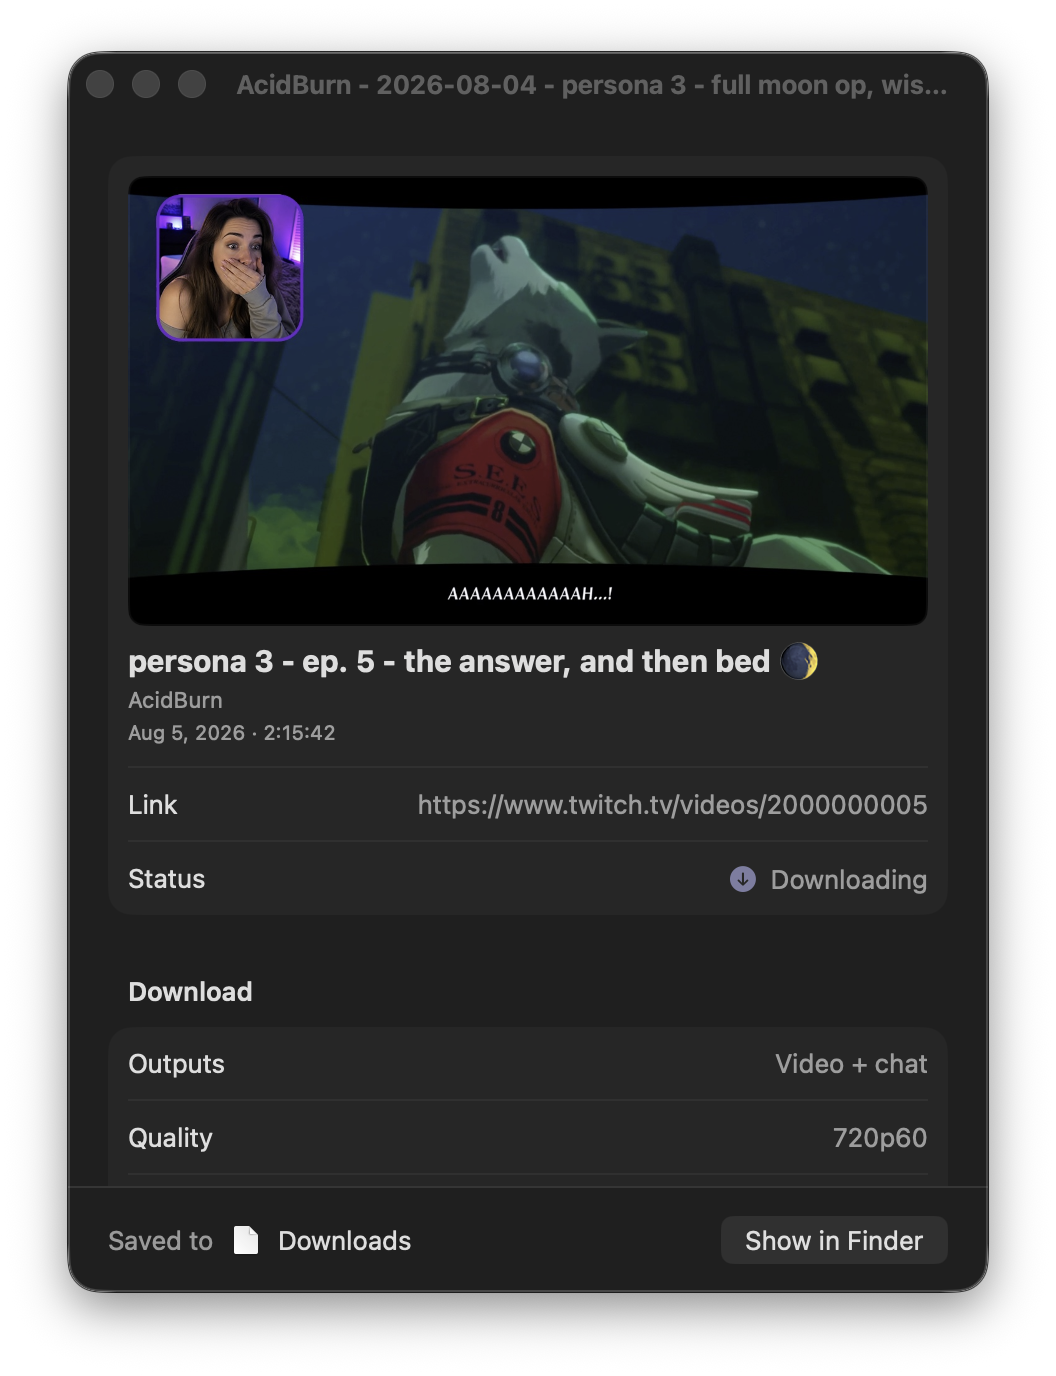
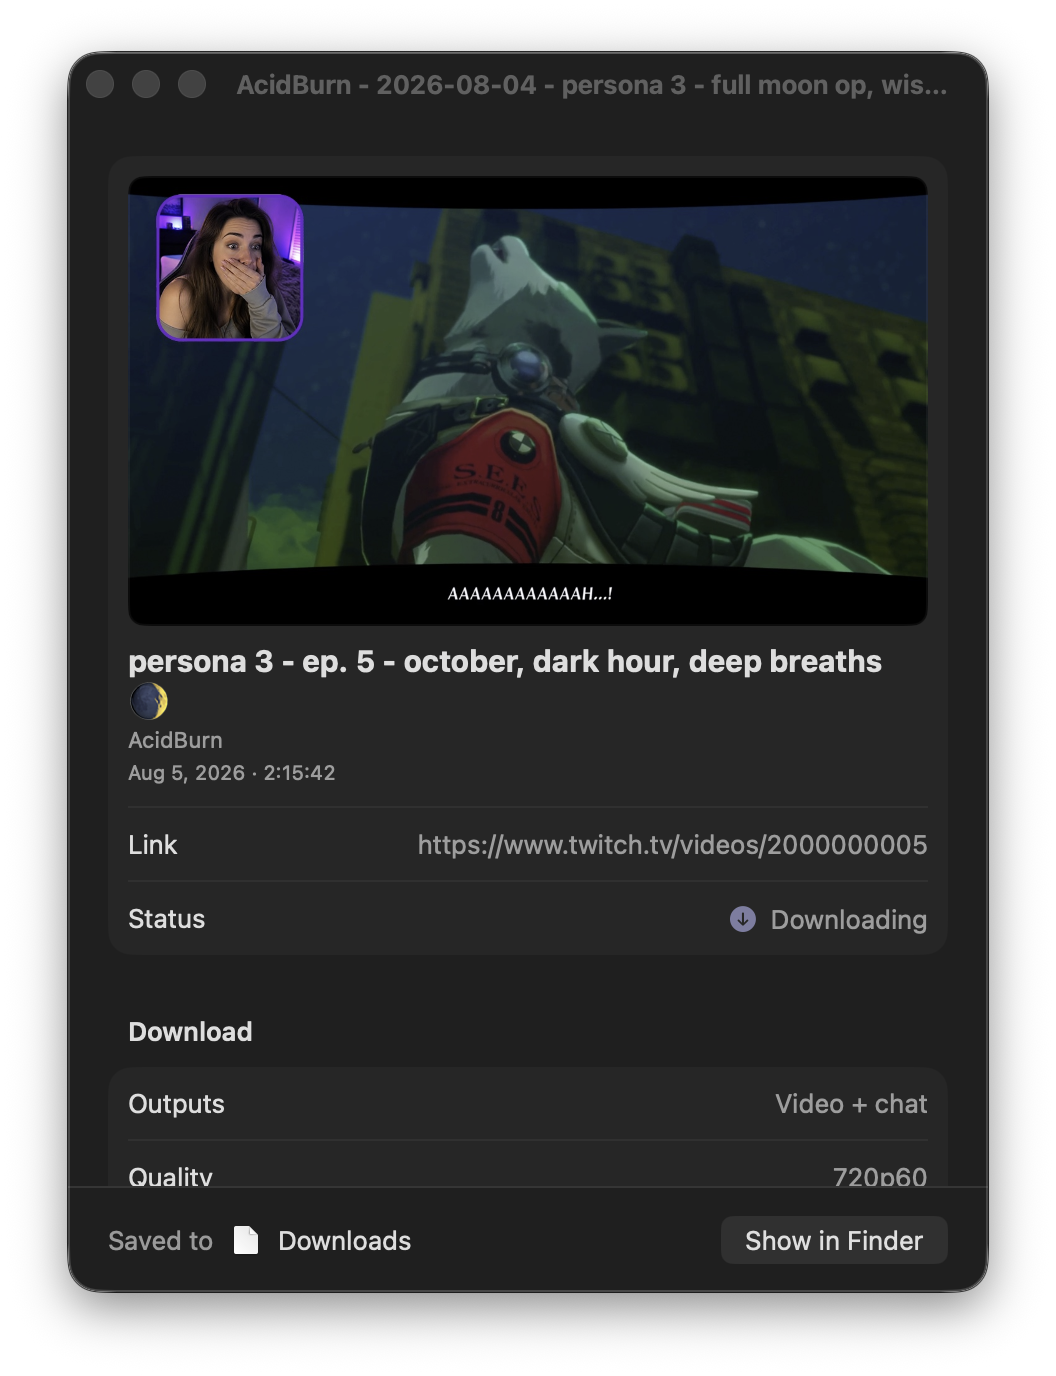
Correct the intake's episode title
"the answer" named Persona 3's post-game epilogue, while the preview frame is
the October full-moon operation from around the middle of the game. The fixture
should not describe its own screenshot wrongly, and a Persona player would spot
it immediately.

Replaced with a title that fits the frame and spoils nothing.

diff --git a/scripts/screenshots/make-fixture.py b/scripts/screenshots/make-fixture.py
@@ -65,7 +65,7 @@ RUNNING_JOB = 5
 # itself next month.
 INTAKE = {
     "streamer": "AcidBurn",
-    "title": "persona 3 - ep. 5 - the answer, and then bed 🌒",
+    "title": "persona 3 - ep. 5 - october, dark hour, deep breaths 🌒",
     "createdAt": "2026-08-05T20:14:00Z",
     "durationSeconds": 8142,
     "qualities": [
